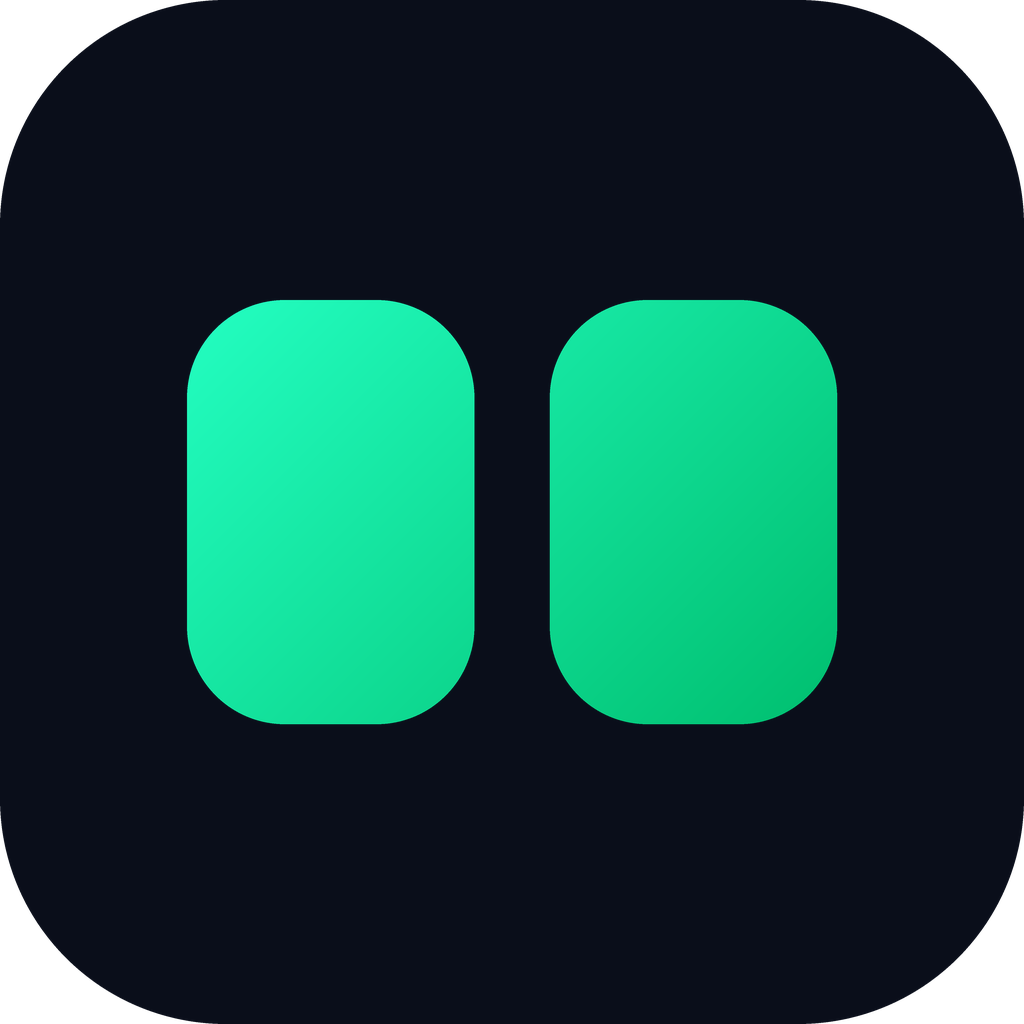
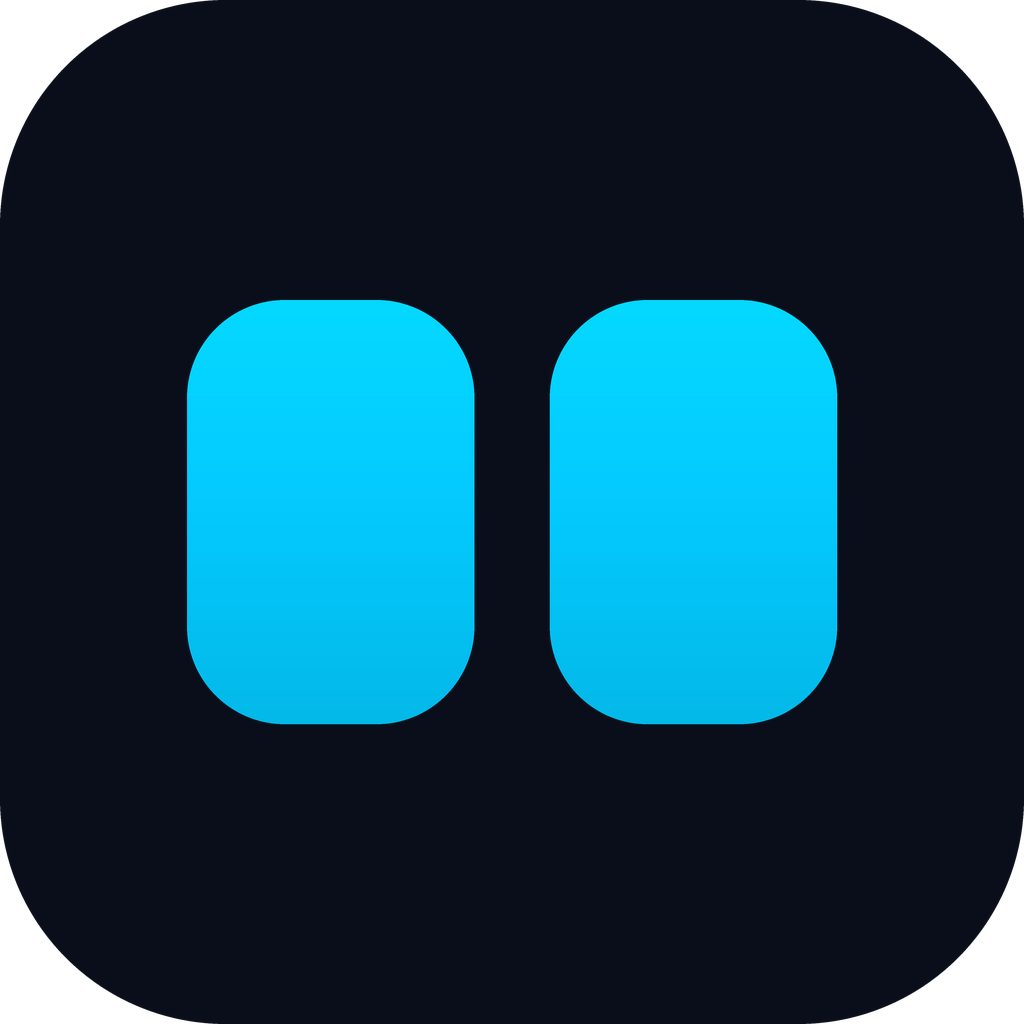
site: a Atlas aparece com a cor real dos olhos (ciano #04C9FD)
O `assets/atlas.png` (favicon, logo do topo e a face grande da capa) vinha do
gerador de ícone do app, que pintava os olhos no verde da marca. No robô eles
são ciano, o EYE_COLOR = #04C9FD do RobotEye. A imagem foi regerada pelo
`tool/gerar_icones.py` do app, já corrigido.

A moldura da face na capa acompanha: o brilho e a borda eram verdes e passam a
ciano escuro. O alt dizia "olhos verdes". O resto do site segue no verde.

Changed region(s): [[0.5312, 0.2812, 0.8438, 0.7188], [0.1562, 0.2812, 0.4688, 0.7188]]

diff --git a/site/estilo.css b/site/estilo.css
@@ -1,5 +1,5 @@
 :root{color-scheme:dark;--fundo:#090f15;--superficie:#111b24;--elevada:#16232e;--borda:#26343e;--texto:#eff5f5;--suave:#a8b9c4;--verde:#45edb5;--largura:1200px;font-family:Inter,"Segoe UI",system-ui,sans-serif;font-size:16px}
-*{box-sizing:border-box}html{scroll-behavior:smooth;scroll-padding-top:100px}body{margin:0;background:var(--fundo);color:var(--texto);line-height:1.65}a{color:inherit;text-decoration:none}a:hover{color:var(--verde)}button,input,select{font:inherit}button,a{-webkit-tap-highlight-color:transparent}button{cursor:pointer}a:focus-visible,button:focus-visible{outline:3px solid var(--verde);outline-offset:5px}h1,h2,h3,p,figure{margin:0}h1,h2,h3{line-height:1.12;letter-spacing:-.045em}p+p{margin-top:1.1rem}img{max-width:100%;height:auto}button:disabled{opacity:.65;cursor:wait}[hidden]{display:none!important}.faixa{width:min(calc(100% - 80px),var(--largura));margin-inline:auto}.pular{position:fixed;left:20px;top:-100px;padding:12px;background:var(--verde);color:var(--fundo);z-index:1000}.pular:focus{top:12px}.topo{border-bottom:1px solid var(--borda);background:rgba(9,15,21,.96);position:sticky;top:0;z-index:500}.topo>.faixa{min-height:88px;display:flex;align-items:center;justify-content:space-between;gap:20px}.marca{display:inline-flex;align-items:center;gap:10px;font-size:1.9rem;font-weight:800;letter-spacing:-.07em}.marca img{border-radius:10px}.marca-nota{margin-left:8px;font-size:.75rem;font-weight:600;letter-spacing:.12em;color:var(--suave)}nav{display:flex;align-items:center;gap:30px}nav a{font-size:.9rem;color:var(--suave)}nav .nav-painel{color:var(--verde);border:1px solid #366456;border-radius:6px;padding:10px 16px}.hero{display:grid;grid-template-columns:1.25fr 1fr;gap:50px;align-items:center;padding-block:90px 80px}.sobrelinha{font-size:.75rem;letter-spacing:.16em;font-weight:700;color:var(--verde);margin-bottom:26px}.linha-verde{display:inline-block;width:25px;height:2px;background:var(--verde);vertical-align:middle;margin-right:10px}h1{font-size:clamp(2.8rem,4.8vw,4.5rem);font-weight:700;letter-spacing:-.055em}h1 em{font-style:normal;color:var(--verde)}.chamada{font-size:1.15rem;color:var(--suave);max-width:530px;margin-top:28px;line-height:1.75}.acoes{display:flex;gap:14px;flex-wrap:wrap;margin-top:34px}.botao{display:inline-flex;justify-content:center;align-items:center;gap:25px;padding:13px 20px;border:1px solid var(--borda);border-radius:6px;font-size:.9rem;font-weight:650;line-height:1.5;background:var(--superficie);color:var(--texto)}.botao:hover{border-color:var(--verde);color:var(--verde)}.botao.primario{background:var(--verde);border-color:var(--verde);color:#06261c}.botao.primario:hover{background:#8bffda;color:#06261c}.secundario{background:transparent}.hero-legenda{font-size:.8rem;margin-top:28px;color:var(--suave)}.hero-atlas{padding:30px 16px 0}.face-moldura{max-width:425px;margin:auto;border-radius:28%;box-shadow:0 0 100px -45px #08a779;border:1px solid #193a32;overflow:hidden;background:#090d19}.face-moldura img{display:block}.hero-atlas figcaption{display:flex;flex-direction:column;gap:4px;text-align:center;margin-top:24px;font-size:.8rem;color:var(--suave)}.hero-atlas figcaption span:first-child{color:var(--verde);font-size:.75rem;letter-spacing:.18em;font-weight:700}.faixa-strip{border-block:1px solid var(--borda)}.strip{padding-block:23px;display:flex;justify-content:space-between;gap:15px;flex-wrap:wrap;color:var(--suave);font-size:.85rem;letter-spacing:.02em}.secao{padding-block:95px}h2{font-size:clamp(2rem,3.2vw,3rem)}.projeto{display:grid;grid-template-columns:1fr 1fr;gap:80px}.projeto-texto{color:var(--suave);font-size:1.05rem}.nota-projeto{padding-left:18px;border-left:2px solid var(--verde);font-size:.9rem;color:var(--texto)}.tecnologia{background:#0d151d;border-block:1px solid var(--borda)}.cabecalho-secao{display:flex;justify-content:space-between;gap:50px;align-items:end;margin-bottom:45px}.cabecalho-secao>p{max-width:360px;color:var(--suave)}.componentes{display:grid;grid-template-columns:repeat(3,1fr);border:1px solid var(--borda);border-radius:10px;overflow:hidden}.componente{padding:32px;display:flex;align-items:flex-start;flex-direction:column}.componente+.componente{border-left:1px solid var(--borda)}.numero-secao{font-size:.9rem;color:var(--verde);margin-bottom:45px}.componente h3{font-size:1.5rem;letter-spacing:-.035em;margin-bottom:18px}.componente p{color:var(--suave);font-size:1rem}.etiquetas{display:flex;flex-wrap:wrap;gap:7px;margin-block:24px 30px}.etiquetas span{border:1px solid var(--borda);border-radius:4px;padding:2px 8px;font-size:.75rem;color:var(--suave)}.componente>a{font-size:.9rem;color:var(--verde);margin-top:auto}.convite{background:#102c26;border:1px solid #2b5949;padding:50px 55px;border-radius:12px;display:flex;align-items:center;justify-content:space-between;gap:30px}.convite p:not(.sobrelinha){color:#bed2c9;max-width:490px;margin-top:20px}.rodape{display:flex;align-items:center;justify-content:space-between;gap:25px;padding-block:36px 50px;border-top:1px solid var(--borda)}.rodape p{font-size:.85rem;color:var(--suave);margin-top:12px}.rodape>a{font-size:.9rem;color:var(--suave)}
+*{box-sizing:border-box}html{scroll-behavior:smooth;scroll-padding-top:100px}body{margin:0;background:var(--fundo);color:var(--texto);line-height:1.65}a{color:inherit;text-decoration:none}a:hover{color:var(--verde)}button,input,select{font:inherit}button,a{-webkit-tap-highlight-color:transparent}button{cursor:pointer}a:focus-visible,button:focus-visible{outline:3px solid var(--verde);outline-offset:5px}h1,h2,h3,p,figure{margin:0}h1,h2,h3{line-height:1.12;letter-spacing:-.045em}p+p{margin-top:1.1rem}img{max-width:100%;height:auto}button:disabled{opacity:.65;cursor:wait}[hidden]{display:none!important}.faixa{width:min(calc(100% - 80px),var(--largura));margin-inline:auto}.pular{position:fixed;left:20px;top:-100px;padding:12px;background:var(--verde);color:var(--fundo);z-index:1000}.pular:focus{top:12px}.topo{border-bottom:1px solid var(--borda);background:rgba(9,15,21,.96);position:sticky;top:0;z-index:500}.topo>.faixa{min-height:88px;display:flex;align-items:center;justify-content:space-between;gap:20px}.marca{display:inline-flex;align-items:center;gap:10px;font-size:1.9rem;font-weight:800;letter-spacing:-.07em}.marca img{border-radius:10px}.marca-nota{margin-left:8px;font-size:.75rem;font-weight:600;letter-spacing:.12em;color:var(--suave)}nav{display:flex;align-items:center;gap:30px}nav a{font-size:.9rem;color:var(--suave)}nav .nav-painel{color:var(--verde);border:1px solid #366456;border-radius:6px;padding:10px 16px}.hero{display:grid;grid-template-columns:1.25fr 1fr;gap:50px;align-items:center;padding-block:90px 80px}.sobrelinha{font-size:.75rem;letter-spacing:.16em;font-weight:700;color:var(--verde);margin-bottom:26px}.linha-verde{display:inline-block;width:25px;height:2px;background:var(--verde);vertical-align:middle;margin-right:10px}h1{font-size:clamp(2.8rem,4.8vw,4.5rem);font-weight:700;letter-spacing:-.055em}h1 em{font-style:normal;color:var(--verde)}.chamada{font-size:1.15rem;color:var(--suave);max-width:530px;margin-top:28px;line-height:1.75}.acoes{display:flex;gap:14px;flex-wrap:wrap;margin-top:34px}.botao{display:inline-flex;justify-content:center;align-items:center;gap:25px;padding:13px 20px;border:1px solid var(--borda);border-radius:6px;font-size:.9rem;font-weight:650;line-height:1.5;background:var(--superficie);color:var(--texto)}.botao:hover{border-color:var(--verde);color:var(--verde)}.botao.primario{background:var(--verde);border-color:var(--verde);color:#06261c}.botao.primario:hover{background:#8bffda;color:#06261c}.secundario{background:transparent}.hero-legenda{font-size:.8rem;margin-top:28px;color:var(--suave)}.hero-atlas{padding:30px 16px 0}.face-moldura{max-width:425px;margin:auto;border-radius:28%;box-shadow:0 0 100px -45px #04a0c9;border:1px solid #19323a;overflow:hidden;background:#090d19}.face-moldura img{display:block}.hero-atlas figcaption{display:flex;flex-direction:column;gap:4px;text-align:center;margin-top:24px;font-size:.8rem;color:var(--suave)}.hero-atlas figcaption span:first-child{color:var(--verde);font-size:.75rem;letter-spacing:.18em;font-weight:700}.faixa-strip{border-block:1px solid var(--borda)}.strip{padding-block:23px;display:flex;justify-content:space-between;gap:15px;flex-wrap:wrap;color:var(--suave);font-size:.85rem;letter-spacing:.02em}.secao{padding-block:95px}h2{font-size:clamp(2rem,3.2vw,3rem)}.projeto{display:grid;grid-template-columns:1fr 1fr;gap:80px}.projeto-texto{color:var(--suave);font-size:1.05rem}.nota-projeto{padding-left:18px;border-left:2px solid var(--verde);font-size:.9rem;color:var(--texto)}.tecnologia{background:#0d151d;border-block:1px solid var(--borda)}.cabecalho-secao{display:flex;justify-content:space-between;gap:50px;align-items:end;margin-bottom:45px}.cabecalho-secao>p{max-width:360px;color:var(--suave)}.componentes{display:grid;grid-template-columns:repeat(3,1fr);border:1px solid var(--borda);border-radius:10px;overflow:hidden}.componente{padding:32px;display:flex;align-items:flex-start;flex-direction:column}.componente+.componente{border-left:1px solid var(--borda)}.numero-secao{font-size:.9rem;color:var(--verde);margin-bottom:45px}.componente h3{font-size:1.5rem;letter-spacing:-.035em;margin-bottom:18px}.componente p{color:var(--suave);font-size:1rem}.etiquetas{display:flex;flex-wrap:wrap;gap:7px;margin-block:24px 30px}.etiquetas span{border:1px solid var(--borda);border-radius:4px;padding:2px 8px;font-size:.75rem;color:var(--suave)}.componente>a{font-size:.9rem;color:var(--verde);margin-top:auto}.convite{background:#102c26;border:1px solid #2b5949;padding:50px 55px;border-radius:12px;display:flex;align-items:center;justify-content:space-between;gap:30px}.convite p:not(.sobrelinha){color:#bed2c9;max-width:490px;margin-top:20px}.rodape{display:flex;align-items:center;justify-content:space-between;gap:25px;padding-block:36px 50px;border-top:1px solid var(--borda)}.rodape p{font-size:.85rem;color:var(--suave);margin-top:12px}.rodape>a{font-size:.9rem;color:var(--suave)}
 /* O painel compartilha a identidade, com densidade própria para leitura de dados. */
 .painel-app{padding-block:42px 60px}.painel-cabecalho{display:flex;justify-content:space-between;align-items:center;gap:24px;margin-bottom:30px}.painel-cabecalho h1{font-size:2.2rem}.painel-cabecalho .sobrelinha{margin-bottom:12px}.painel-cabecalho p:not(.sobrelinha){color:var(--suave);font-size:1rem;margin-top:12px}.estado{font-size:.9rem;display:inline-flex;align-items:center;gap:8px;color:var(--suave)}.estado::before{content:"";width:7px;height:7px;border-radius:50%;background:currentColor;flex-shrink:0}.estado.vivo{color:var(--verde)}.estado.erro{color:#ffa796}.estado.parado{color:#edc78b}.barra-estado{display:flex;justify-content:space-between;gap:20px;align-items:center;padding:16px 20px;background:var(--superficie);border:1px solid var(--borda);border-radius:8px;margin-bottom:24px}.meta{font-size:.8rem;color:var(--suave)}.metricas{list-style:none;margin:0 0 24px;padding:0;display:grid;grid-template-columns:repeat(4,1fr);gap:16px}.metrica{padding:22px;background:var(--superficie);border:1px solid var(--borda);border-radius:8px}.rotulo{display:block;color:var(--suave);font-size:.9rem}.valor{display:block;font-size:2rem;font-weight:650;letter-spacing:-.05em;margin:5px 0}.detalhe{display:block;font-size:.8rem;color:var(--suave)}.painel-grid{display:grid;grid-template-columns:minmax(0,1.8fr) minmax(280px,1fr);gap:24px;align-items:start}.bloco{border:1px solid var(--borda);border-radius:10px;background:var(--superficie);overflow:hidden}.bloco-titulo{padding:22px 24px;border-bottom:1px solid var(--borda)}.bloco-titulo h2{font-size:1.2rem;letter-spacing:-.02em}.bloco-titulo p{font-size:.9rem;color:var(--suave);margin-top:7px}.mapa{height:360px;background:#17232b;z-index:0}.mapa-vazio{padding:55px 30px;min-height:260px;display:grid;align-content:center;text-align:center;color:var(--suave)}.mapa-vazio strong{display:block;color:var(--texto);margin-bottom:8px}.bloco-rodape{padding:16px 24px;font-size:.85rem;color:var(--suave);border-top:1px solid var(--borda)}.lista-sinais{list-style:none;padding:0 24px;margin:0}.lista-sinais li{padding:20px 0;display:flex;justify-content:space-between;align-items:center;gap:14px}.lista-sinais li+li{border-top:1px solid var(--borda)}.lista-sinais .nome{font-weight:600;font-size:1rem}.lista-sinais time{font-size:.8rem;color:var(--suave)}.lista-sinais .total{font-size:.85rem;color:var(--suave)}.lista-sinais .valor-sinal{text-align:right}.aviso{padding:17px 20px;border-left:3px solid #e9bd79;background:#282318;border-radius:4px;margin-bottom:24px;color:#eddbbf;font-size:.9rem}.aviso:empty{display:none}.painel-nota{color:var(--suave);font-size:.9rem;margin-top:24px}.link-discreto{color:var(--verde)}.lista-sinais .sem-registro{padding:24px 0;color:var(--suave);display:block}.legenda-mapa{display:flex;justify-content:space-between;gap:14px;flex-wrap:wrap}
 @media(min-width:1450px){.hero{padding-block:115px 105px}}

diff --git a/site/index.html b/site/index.html
@@ -28,7 +28,7 @@
         <p class="hero-legenda">Construída na SETREM. Desenvolvida em código aberto.</p>
       </div>
       <figure class="hero-atlas">
-        <div class="face-moldura"><img src="assets/atlas.png" width="1024" height="1024" alt="A identidade da Atlas: dois olhos verdes em uma face escura" fetchpriority="high"></div>
+        <div class="face-moldura"><img src="assets/atlas.png" width="1024" height="1024" alt="A identidade da Atlas: dois olhos ciano em uma face escura" fetchpriority="high"></div>
         <figcaption><span>OLÁ, EU SOU A ATLAS.</span><span>Uma ideia ganhando expressão.</span></figcaption>
       </figure>
     </section>
